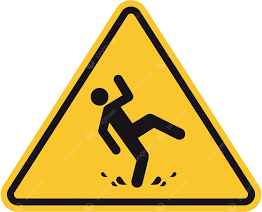
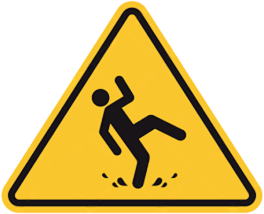
Vanguard: kaygan zemin levhası filigransız görselle değişti
Claude-Session: https://claude.ai/code/session_01LTc866qjGZovjmuJcPe8C3

diff --git a/panel.html b/panel.html
@@ -4199,7 +4199,7 @@
       // Vanguard yenileniyor: şimdilik "ıslak zemin" levhası. Eski sayfa aşağıda duruyor; VANGUARD_OPEN = true ile geri açılır.
       if (!VANGUARD_OPEN) return `${head('UniPakt.Vanguard', '')}
         <section class="card wet-floor" role="status">
-          <img class="wet-sign" src="/assets/img/kaygan-zemin.png" alt="" width="262" height="212">
+          <img class="wet-sign" src="/assets/img/kaygan-zemin.png?v=2" alt="" width="264" height="214">
           <p class="wet-text">Şu an yerler biraz ıslak, kuruyunca uğra.</p>
           <p class="wet-sub">(Önerilerinizi dinliyoruz)</p>
         </section>`;
